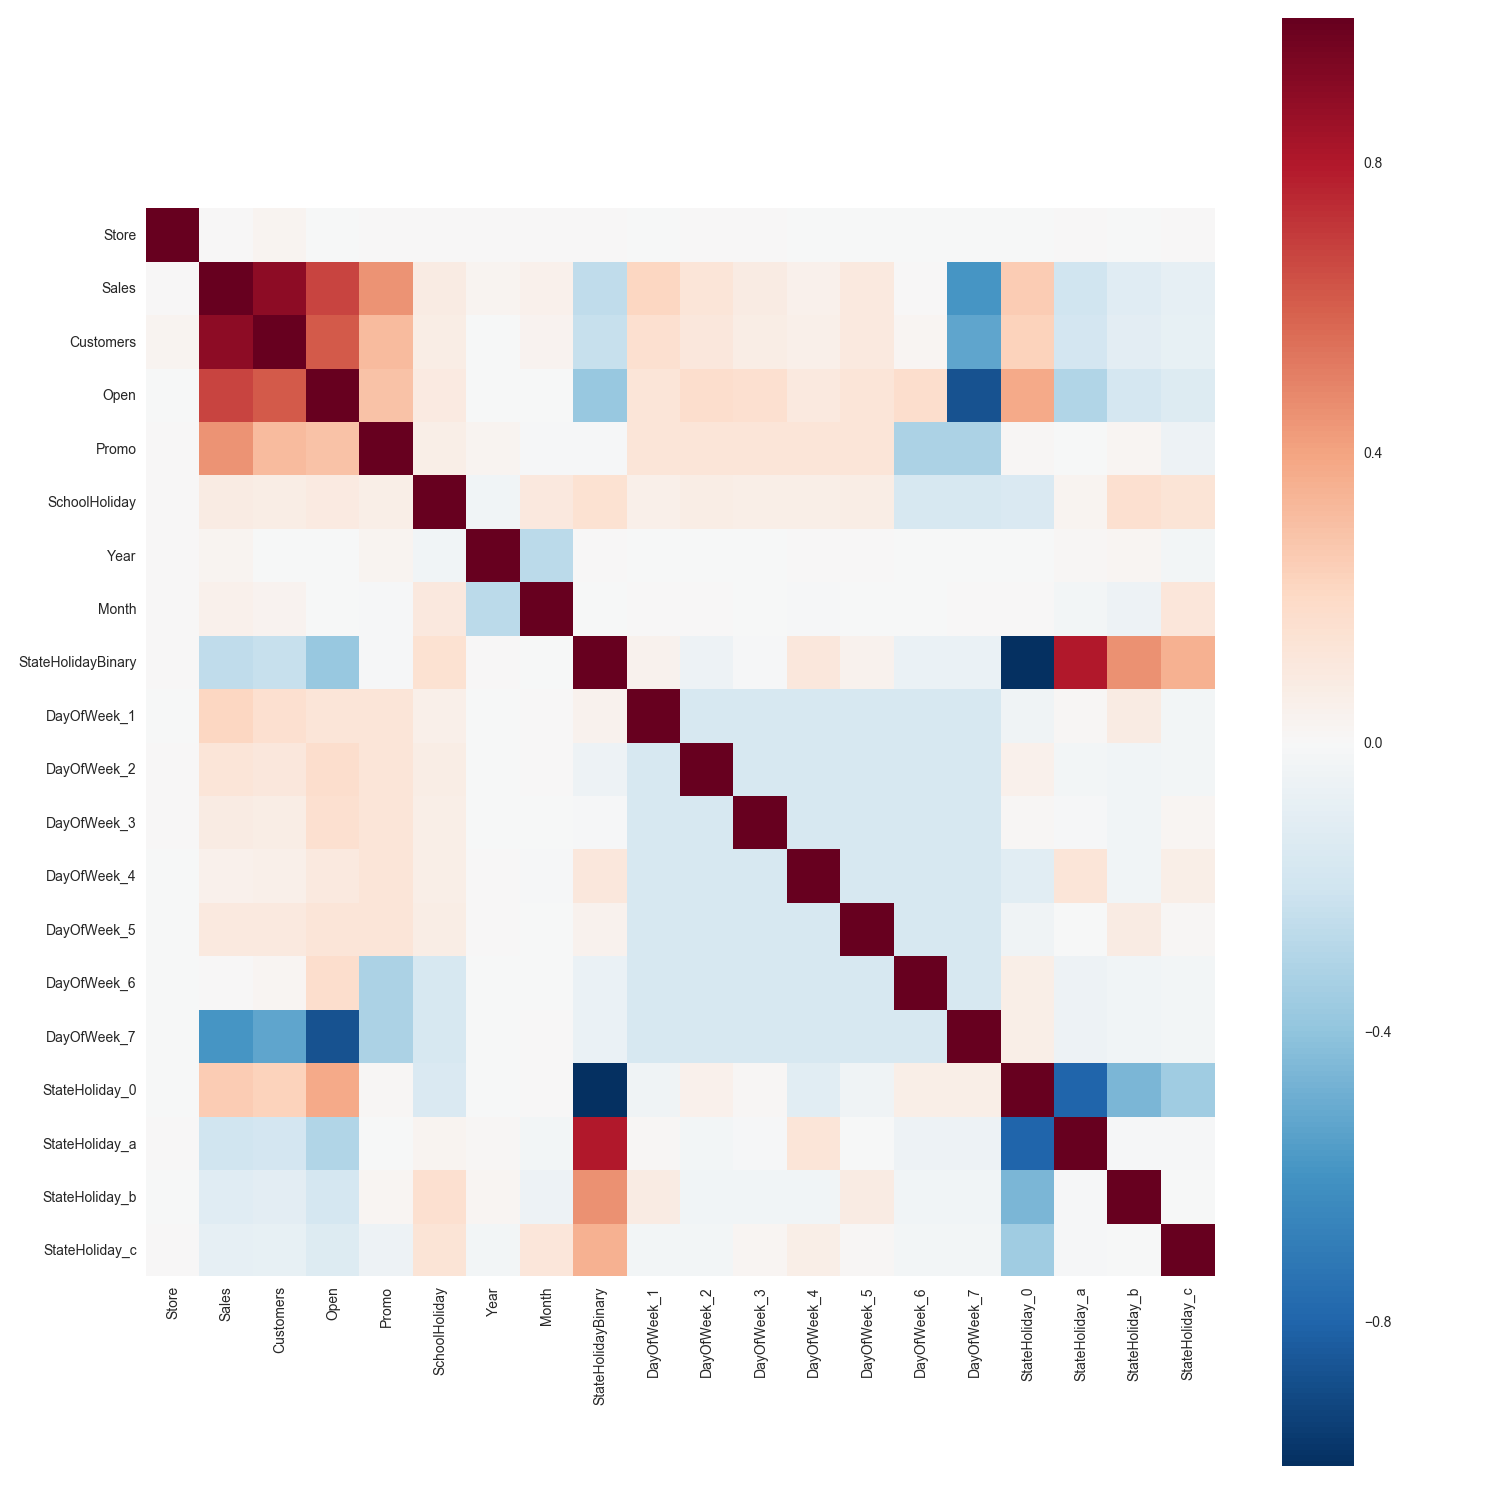
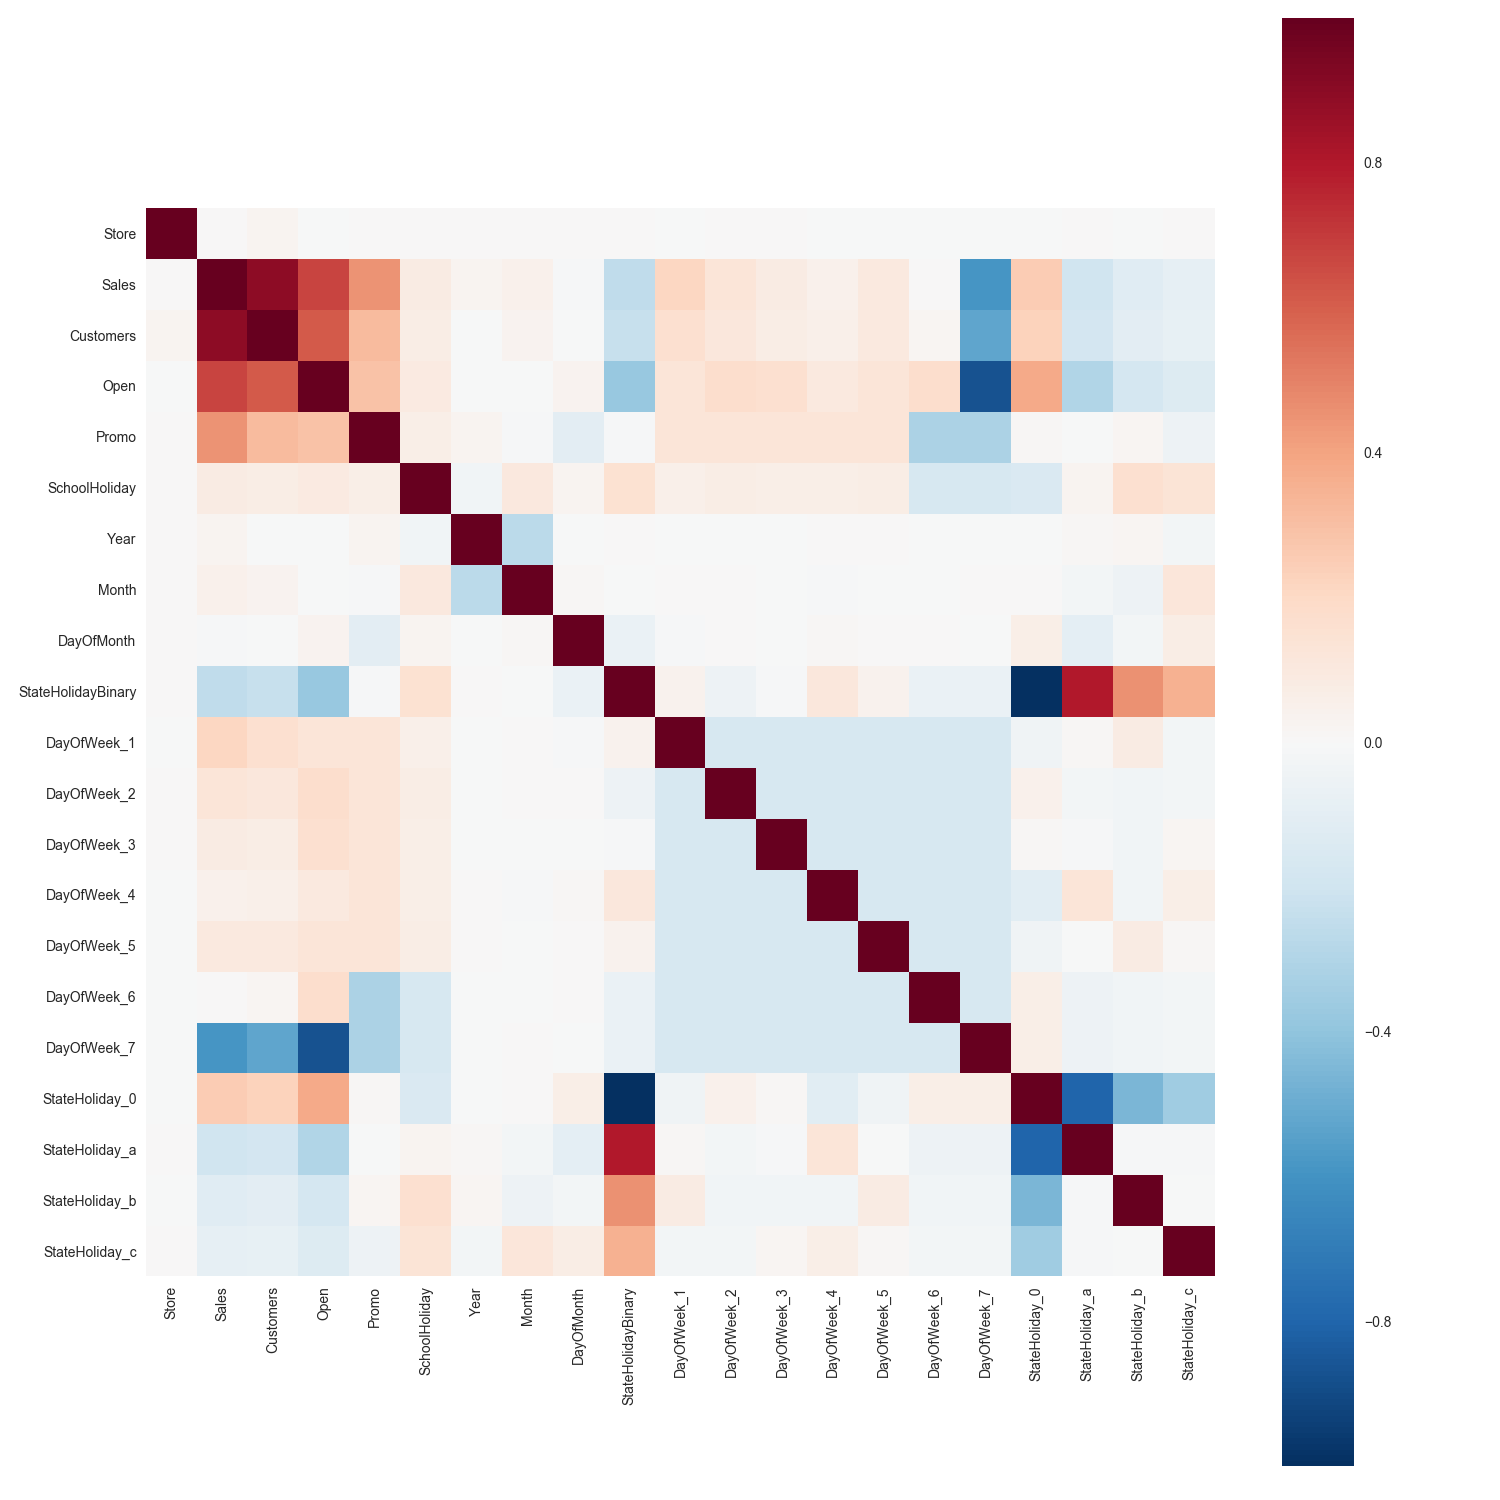
Added DayOfMonth to Plots

diff --git a/generateplots.py b/generateplots.py
@@ -36,9 +36,10 @@ def less_than_ten(val):
 # training_df                              #
 ############################################
 
-# Create "Year" & "Month" columns
+# Create "Year", "Month" & "DayOfMonth" columns
 training_df["Year"] = training_df["Date"].apply(lambda x: dt.datetime.strptime(x, "%Y-%m-%d").year)
 training_df["Month"] = training_df["Date"].apply(lambda x: dt.datetime.strptime(x, "%Y-%m-%d").month)
+training_df["DayOfMonth"] = training_df["Date"].apply(lambda x: dt.datetime.strptime(x, "%Y-%m-%d").day)
 
 # Create "YearMonth" column
 training_df["YearMonth"] = training_df["Date"].apply(lambda x: str(dt.datetime.strptime(x, "%Y-%m-%d").year) + "-" + less_than_ten(str(dt.datetime.strptime(x, "%Y-%m-%d").month)))
@@ -127,6 +128,15 @@ fig.savefig("plots/Avg. Sales & Customers (by Month).png", dpi=fig.dpi)
 fig.clf()
 plt.close(fig)
 print("Plotted Avg. Sales & Customers (by Month)")
+
+fig, (axis1, axis2) = plt.subplots(1, 2, figsize=(15, 8))
+sns.barplot(x="DayOfMonth", y="Sales", data=training_df, ax=axis1, ci=None)
+sns.barplot(x="DayOfMonth", y="Customers", data=training_df, ax=axis2, ci=None)
+fig.tight_layout()
+fig.savefig("plots/Avg. Sales & Customers (by Day Of Month).png", dpi=fig.dpi)
+fig.clf()
+plt.close(fig)
+print("Plotted Avg. Sales & Customers (by Day Of Month)")
 
 
 ############################################
@@ -523,29 +533,5 @@ fig, axis1 = plt.subplots(1, 1, figsize=(15, 8))
 sns.barplot(x="StoreType", y="AvgSalesPerCustomerForOpenDays", order=["a", "b", "c", "d"], data=merged_df, ax=axis1, ci=None)
 fig.tight_layout()
 fig.savefig("plots/Avg. Sales per Customer for Open Days (by Store Type).png", dpi=fig.dpi)
-fig.clf()
-plt.close(fig)
-
-############################################
-# Sales vs DayOfMonth                      #
-############################################
-
-fig, axis1 = plt.subplots(1, 1, figsize=(15, 8))
-training_df["DayOfMonth"] = training_df["Date"].apply(lambda x: dt.datetime.strptime(x, "%Y-%m-%d").day)
-sns.barplot(x="DayOfMonth", y="Sales", order=range(1,32), data=training_df, ax=axis1, ci=None)
-fig.tight_layout()
-fig.savefig("plots/Sales (by DayOfMonth).png", dpi=fig.dpi)
-fig.clf()
-plt.close(fig)
-
-############################################
-# Customers vs DayOfMonth                  #
-############################################
-
-fig, axis1 = plt.subplots(1, 1, figsize=(15, 8))
-training_df["DayOfMonth"] = training_df["Date"].apply(lambda x: dt.datetime.strptime(x, "%Y-%m-%d").day)
-sns.barplot(x="DayOfMonth", y="Customers", order=range(1,32), data=training_df, ax=axis1, ci=None)
-fig.tight_layout()
-fig.savefig("plots/Customers (by DayOfMonth).png", dpi=fig.dpi)
 fig.clf()
 plt.close(fig)
